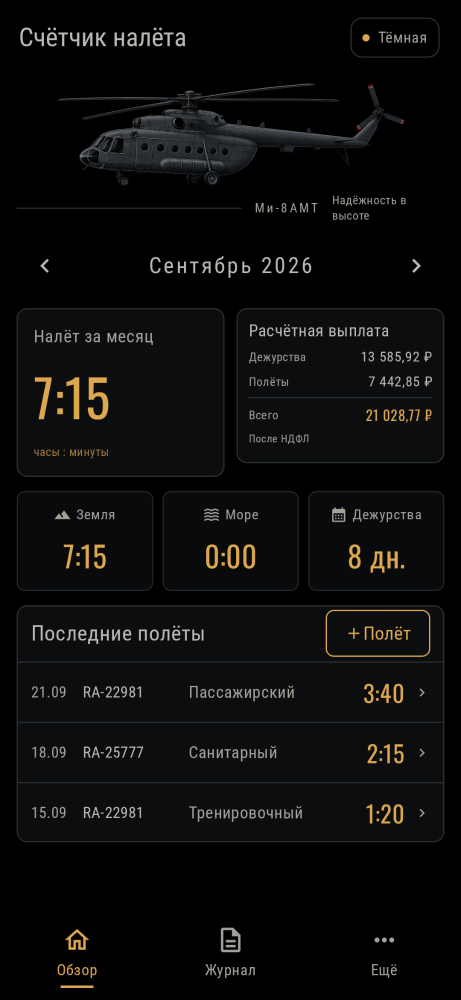
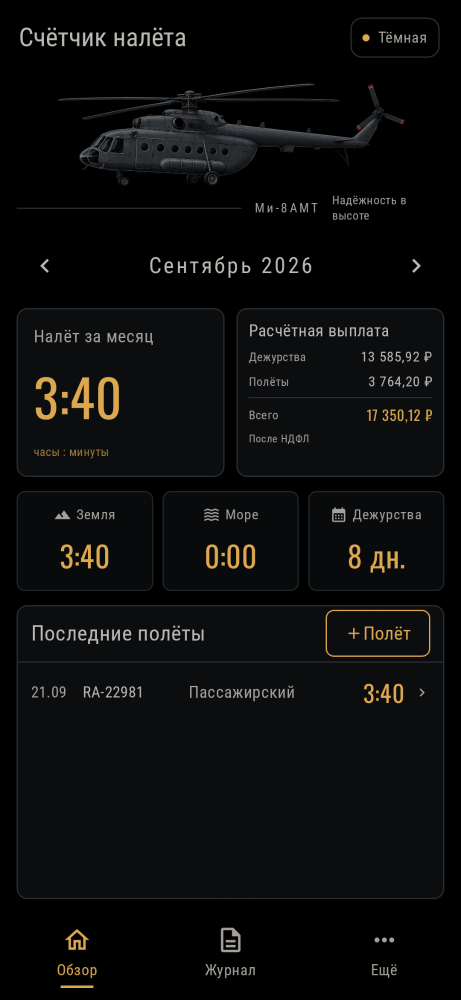
Unify cockpit layout and credit Avik3 in version 2.0 build 28

diff --git a/app/src/main/java/com/example/flightlog/ui/OverviewScreen.kt b/app/src/main/java/com/example/flightlog/ui/OverviewScreen.kt
@@ -95,48 +95,45 @@ fun OverviewContent(
     onEditFlight: (FlightEntity) -> Unit,
     onAddFlight: () -> Unit
 ) {
-    val theme = LocalCockpitTheme.current
-    Column(
-        Modifier.fillMaxSize().verticalScroll(rememberScrollState())
-            .padding(horizontal = 14.dp).padding(bottom = 12.dp),
-        verticalArrangement = Arrangement.spacedBy(12.dp)
-    ) {
-        AircraftHeader()
-        MonthSelector(year, month, onPeriodChange)
-        BoxWithConstraints(Modifier.fillMaxWidth()) {
-            // Side by side when readable; enlarged fonts get full-width panels.
-            if (maxWidth >= 320.dp && LocalDensity.current.fontScale <= 1.15f) {
-                Row(horizontalArrangement = Arrangement.spacedBy(10.dp)) {
-                    Box(Modifier.weight(1f)) { MonthlyTimePanel(report, compact = true) }
-                    Box(Modifier.weight(1f)) { FinancePanel(report, compact = true) }
+    BoxWithConstraints(Modifier.fillMaxSize().padding(horizontal = 14.dp)) {
+        val viewportHeight = constraints.maxHeight
+        val gap = with(LocalDensity.current) { 12.dp.roundToPx() }
+        // Measure natural content first; the last panel fills unused viewport space.
+        // Content can still scroll on short screens and with enlarged fonts.
+        androidx.compose.ui.layout.Layout(
+            modifier = Modifier.fillMaxWidth().verticalScroll(rememberScrollState()),
+            content = {
+                Column(verticalArrangement = Arrangement.spacedBy(12.dp)) {
+                    AircraftHeader()
+                    MonthSelector(year, month, onPeriodChange)
+                    BoxWithConstraints(Modifier.fillMaxWidth()) {
+                        if (maxWidth >= 320.dp && LocalDensity.current.fontScale <= 1.15f) {
+                            Row(Modifier.height(IntrinsicSize.Min),
+                                horizontalArrangement = Arrangement.spacedBy(10.dp)) {
+                                Box(Modifier.weight(1f).fillMaxHeight()) { MonthlyTimePanel(report, compact = true) }
+                                Box(Modifier.weight(1f).fillMaxHeight()) { FinancePanel(report, compact = true) }
+                            }
+                        } else {
+                            Column(verticalArrangement = Arrangement.spacedBy(10.dp)) {
+                                MonthlyTimePanel(report)
+                                FinancePanel(report)
+                            }
+                        }
+                    }
+                    Metrics(report, dutyDays)
                 }
-            } else {
-                Column(verticalArrangement = Arrangement.spacedBy(10.dp)) {
-                    MonthlyTimePanel(report)
-                    FinancePanel(report)
-                }
+                RecentFlightsPanel(flights, onEditFlight, onAddFlight)
+            }
+        ) { measurables, incoming ->
+            val natural = incoming.copy(minHeight = 0)
+            val header = measurables[0].measure(natural)
+            val remaining = (viewportHeight - header.height - gap * 2).coerceAtLeast(0)
+            val recent = measurables[1].measure(natural.copy(minHeight = remaining))
+            layout(incoming.maxWidth, header.height + recent.height + gap * 2) {
+                header.placeRelative(0, 0)
+                recent.placeRelative(0, header.height + gap)
             }
         }
-        Metrics(report, dutyDays)
-
-        RecentFlightsPanel(flights, onEditFlight, onOpenJournal, onAddFlight)
-
-        if (theme != AppTheme.AMOLED) {
-            Button(
-                onClick = onAddFlight,
-                modifier = Modifier.fillMaxWidth().heightIn(min = 54.dp),
-                shape = RoundedCornerShape(8.dp),
-                colors = ButtonDefaults.buttonColors(
-                    containerColor = MaterialTheme.colorScheme.primary,
-                    contentColor = MaterialTheme.colorScheme.onPrimary
-                )
-            ) {
-                Icon(Icons.Default.Add, null, Modifier.size(26.dp))
-                Spacer(Modifier.width(8.dp))
-                Text("Полёт", fontFamily = CabinFont, fontSize = 22.sp)
-            }
-        }
-
     }
 }
 
@@ -287,27 +284,18 @@ private fun MetricTile(label: String, value: String, icon: ImageVector, theme: A
 private fun RecentFlightsPanel(
     flights: List<FlightEntity>,
     onEdit: (FlightEntity) -> Unit,
-    onJournal: () -> Unit,
     onAdd: () -> Unit
 ) {
-    val night = LocalCockpitTheme.current == AppTheme.AMOLED
     CockpitPanel(padding = 0, spacing = 0) {
         Row(Modifier.fillMaxWidth().padding(horizontal = 12.dp),
             verticalAlignment = Alignment.CenterVertically) {
             Text("Последние полёты", Modifier.weight(1f), fontSize = 18.sp,
                 fontFamily = CabinFont)
-            if (night) {
-                OutlinedButton(onClick = onAdd, shape = RoundedCornerShape(7.dp),
-                    contentPadding = PaddingValues(horizontal = 16.dp),
-                    border = BorderStroke(1.dp, MaterialTheme.colorScheme.primary)) {
-                    Icon(Icons.Default.Add, null, Modifier.size(16.dp))
-                    Text("Полёт", fontSize = 16.sp)
-                }
-            } else {
-                TextButton(onClick = onJournal, contentPadding = PaddingValues(4.dp)) {
-                    Text("Все", fontSize = 12.sp)
-                    Icon(Icons.Default.ChevronRight, null, Modifier.size(18.dp))
-                }
+            OutlinedButton(onClick = onAdd, shape = RoundedCornerShape(7.dp),
+                contentPadding = PaddingValues(horizontal = 16.dp),
+                border = BorderStroke(1.dp, MaterialTheme.colorScheme.primary)) {
+                Icon(Icons.Default.Add, null, Modifier.size(16.dp))
+                Text("Полёт", fontSize = 16.sp)
             }
         }
         if (flights.isEmpty()) {

diff --git a/app/src/main/java/com/example/flightlog/ui/CockpitDetails.kt b/app/src/main/java/com/example/flightlog/ui/CockpitDetails.kt
@@ -81,7 +81,7 @@ internal fun AircraftHeader() {
 internal fun MonthlyTimePanel(report: MonthlyReport, compact: Boolean = false) {
     val blue = LocalCockpitTheme.current == AppTheme.BLUE
     val foreground = if (blue) Color.White else MaterialTheme.colorScheme.primary
-    CockpitPanel(modifier = if (compact) Modifier.heightIn(min = 132.dp) else Modifier,
+    CockpitPanel(modifier = if (compact) Modifier.fillMaxHeight().heightIn(min = 132.dp) else Modifier,
         gradient = if (blue) listOf(Color(0xFF096FC5), Color(0xFF034F9D)) else null) {
         Text("Налёт за месяц", fontSize = 15.sp, lineHeight = 20.sp,
             color = if (blue) Color.White else MaterialTheme.colorScheme.onSurfaceVariant)
@@ -95,7 +95,7 @@ internal fun MonthlyTimePanel(report: MonthlyReport, compact: Boolean = false) {
 
 @Composable
 internal fun FinancePanel(report: MonthlyReport, compact: Boolean = false) {
-    CockpitPanel(modifier = if (compact) Modifier.heightIn(min = 132.dp) else Modifier,
+    CockpitPanel(modifier = if (compact) Modifier.fillMaxHeight().heightIn(min = 132.dp) else Modifier,
         padding = if (compact) 10 else 14, spacing = 5) {
         Text("Расчётная выплата", fontSize = if (compact) 14.sp else 17.sp,
             lineHeight = if (compact) 18.sp else 23.sp)

diff --git a/app/src/main/java/com/example/flightlog/ui/MainScreen.kt b/app/src/main/java/com/example/flightlog/ui/MainScreen.kt
@@ -76,19 +76,6 @@ fun MainScreen(
 
     CockpitScaffold(page = page, onPageChange = { page = it }) { innerPadding ->
         Column(Modifier.fillMaxSize().padding(innerPadding)) {
-            // Fixed action does not cover the last journal row on small screens.
-            if (page == 1) {
-                OutlinedButton(
-                    onClick = { page = 2 },
-                    modifier = Modifier.fillMaxWidth().padding(horizontal = 16.dp).padding(bottom = 8.dp),
-                    border = BorderStroke(1.dp, MaterialTheme.colorScheme.primary),
-                    shape = androidx.compose.foundation.shape.RoundedCornerShape(9.dp)
-                ) {
-                    Icon(Icons.Default.Add, contentDescription = null)
-                    Spacer(Modifier.width(8.dp))
-                    Text("Полёт", fontWeight = FontWeight.Normal)
-                }
-            }
             Box(Modifier.weight(1f)) {
                 stateHolder.SaveableStateProvider(page) {
                     when (page) {

diff --git a/app/src/main/java/com/example/flightlog/ui/AppearanceScreen.kt b/app/src/main/java/com/example/flightlog/ui/AppearanceScreen.kt
@@ -63,6 +63,7 @@ fun MoreScreen(
         Text("Параметры борта", style = MaterialTheme.typography.titleMedium)
         MoreAction("Оформление", selectedTheme.title, Icons.Outlined.Palette, onThemeClick)
         MoreAction("Тарифы", "Полёты и дежурства", Icons.Outlined.Tune, onTariffsClick)
+        Text("Разработка © Avik3", style = MaterialTheme.typography.bodyMedium)
         Text("Версия $versionName", style = MaterialTheme.typography.labelMedium,
             color = MaterialTheme.colorScheme.onSurfaceVariant)
         Text(

diff --git a/RELEASE-2.0-build28.md b/RELEASE-2.0-build28.md
@@ -1,0 +1,10 @@
+# 2.0 — код версии 28
+
+- Единая кнопка «+ Полёт» в заголовке последних полётов во всех темах.
+- Последние полёты заполняют свободную высоту до нижней навигации; на небольшом экране содержимое прокручивается.
+- Карточки налёта и расчётной выплаты одинаковой высоты в двухколоночной раскладке.
+- Удалена верхняя кнопка добавления из журнала, содержимое поднято.
+- В «Ещё» добавлено «Разработка © Avik3».
+- Отображаемая версия 2.0; versionCode повышен с 27 до 28.
+
+Проверка: рендеры трёх тем с одним полётом, пустого обзора, увеличенного шрифта и остальных экранов (9 проверок Paparazzi). Обновлённые изображения находятся в design/previews. Дополнительно выполнены сборка debug APK и unit-тесты.
